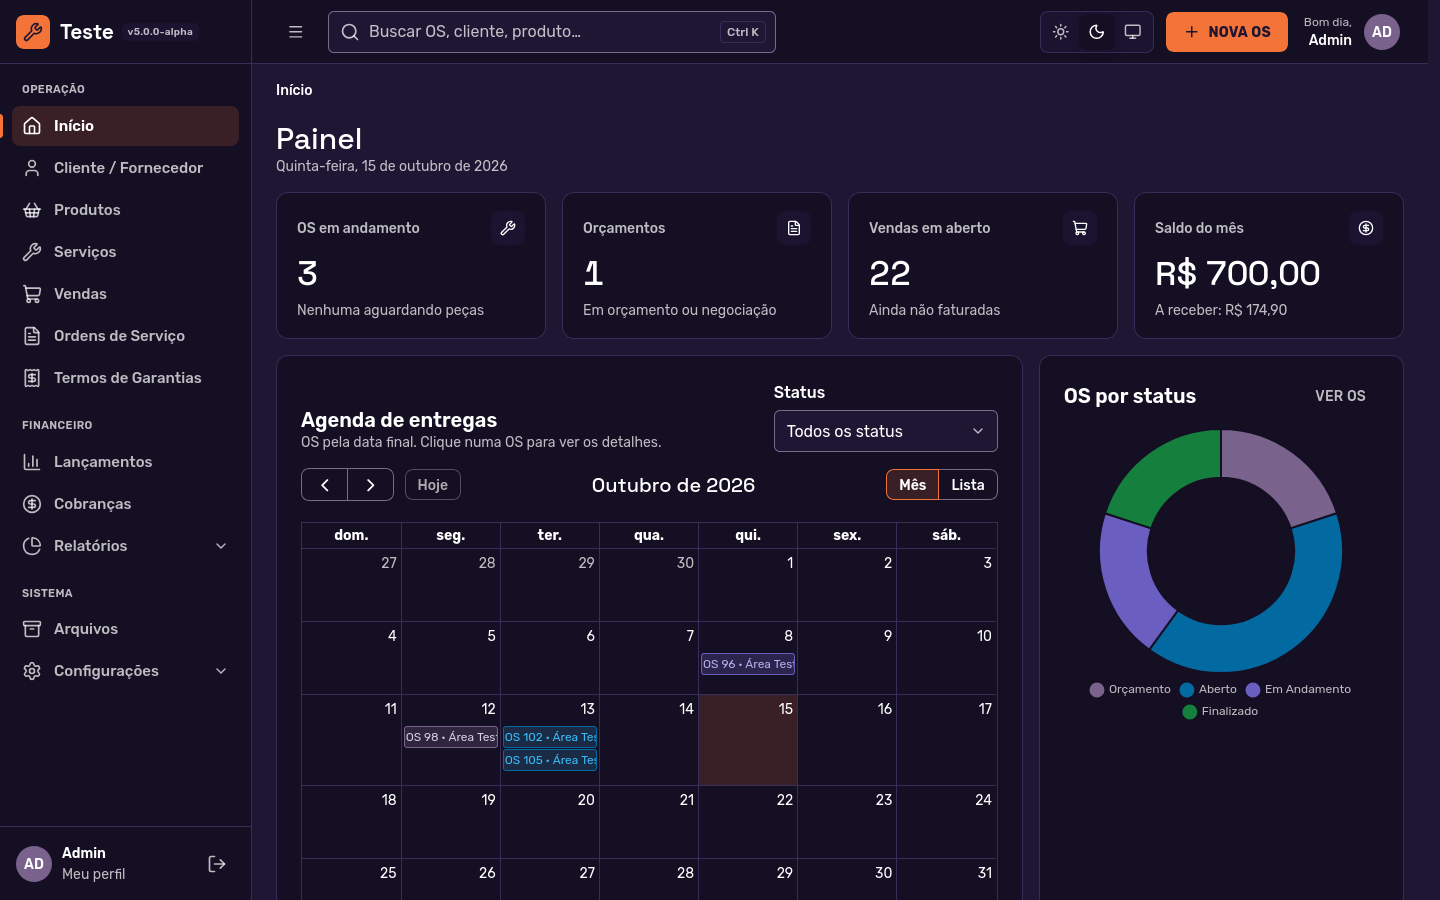
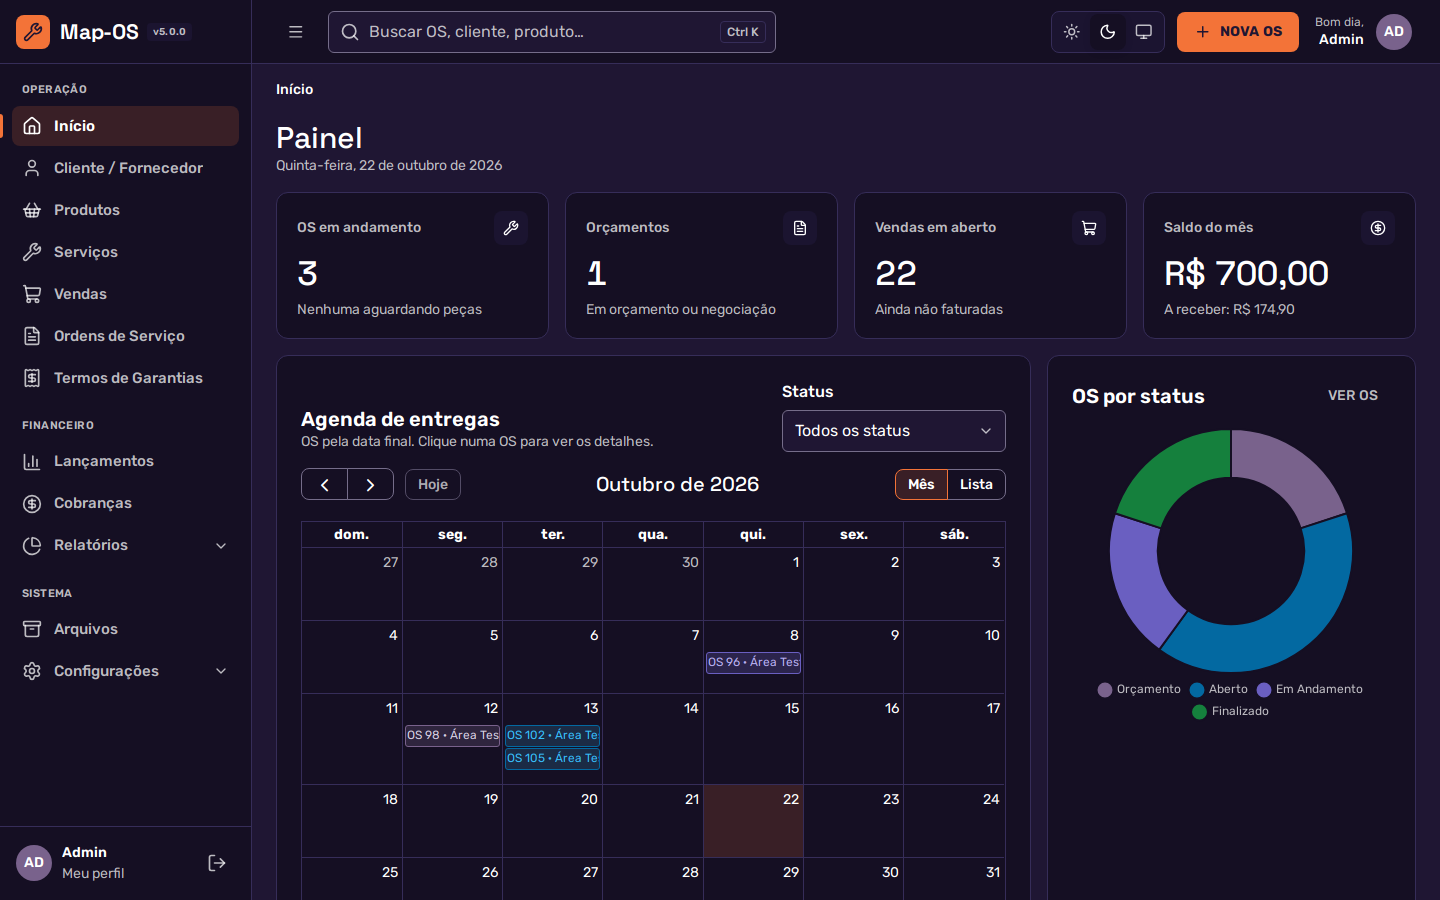
docs: capturas com o nome Map-OS e tabela de suporte das versões

diff --git a/SECURITY.md b/SECURITY.md
@@ -4,14 +4,15 @@ O Map-OS é usado por empresas para gerenciar ordens de serviço, dados de clien
 
 ## Versões suportadas
 
-Correções de segurança são publicadas apenas na versão mais recente, a partir da branch `master`. O projeto não mantém branches de suporte para versões antigas.
+Correções de segurança são publicadas na `master` (5.x) e, até 30/04/2027, também no branch `4.x`. A versão em Laravel ainda está em desenvolvimento e não tem data de lançamento.
 
-| Versão | Suportada |
-| --- | --- |
-| Última release | ✅ |
-| Versões anteriores | ❌ |
+| Versão | Branch | Situação | Suporte |
+| --- | --- | --- | --- |
+| Map-OS em Laravel | — | Em desenvolvimento | Sem data de lançamento |
+| 5.x (atual) | `master` | Ativa: novidades e correções | Suporte ativo até a versão em Laravel sair; segurança por mais 12 meses depois |
+| 4.x | `4.x` | Só segurança | Até 30/04/2027 |
 
-Se você está em uma versão antiga, a orientação é atualizar seguindo as instruções de [Atualização](README.md#atualização) do README.
+Dentro de cada linha, só a última release recebe a correção: quem está numa versão anterior (na 4.x, abaixo da 4.55.5) deve atualizar seguindo as instruções de [Atualização](README.md#atualização-v5-em-diante) do README, ou migrar da 4.x pelo [guia de migração](docs/migracao-4x-para-5.md).
 
 ## Como reportar uma vulnerabilidade
 

diff --git a/README.md b/README.md
@@ -139,6 +139,15 @@ Configurações > Atualizar > **Verificar atualização** baixa a última releas
 
 Esse recurso vale a partir da v5. Quem está na 4.x deve usar o guia de migração acima.
 
+### Suporte das versões
+| Versão | Branch | Situação | Suporte |
+| --- | --- | --- | --- |
+| Map-OS em Laravel | — | Em desenvolvimento | Sem data de lançamento |
+| 5.x (atual) | `master` | Ativa: novidades e correções | Suporte ativo até a versão em Laravel sair; segurança por mais 12 meses depois |
+| 4.x | `4.x` | Só segurança | Até 30/04/2027 |
+
+Quem está na 4.x deve migrar pelo [guia de migração](docs/migracao-4x-para-5.md). O botão "Atualizar Mapos" da 4.55.5 segue o branch `4.x` e não instala a v5.
+
 ### Comandos de terminal
 
 Para listar todos os comandos de terminal disponíveis, basta executar o comando `php index.php tools` a partir da raiz do projeto, após feita todo o processo de instalação.

diff --git a/CHANGELOG.md b/CHANGELOG.md
@@ -6,6 +6,9 @@ e [Semantic Versioning](https://semver.org/spec/v2.0.0.html).
 
 ## [Unreleased]
 
+### Changed
+- Capturas do README com o nome Map-OS e a versão 5.0.0, e tabela de suporte das versões (4.x, 5.x e a futura versão em Laravel) no README e no `SECURITY.md`. [@RamonSilva20](https://github.com/RamonSilva20)
+
 ## [5.0.0] - 2026-10-22
 
 Primeira versão estável da v5. Exige PHP 8.5; leia o [guia de migração](docs/migracao-4x-para-5.md) e teste numa cópia antes de usar em produção. Quem está na 4.x deve atualizar para a 4.55.5 e migrar pelo guia: o botão "Atualizar Mapos" da 4.x não instala a v5. Sem migration nem variável nova no `.env` em relação à beta.3.
